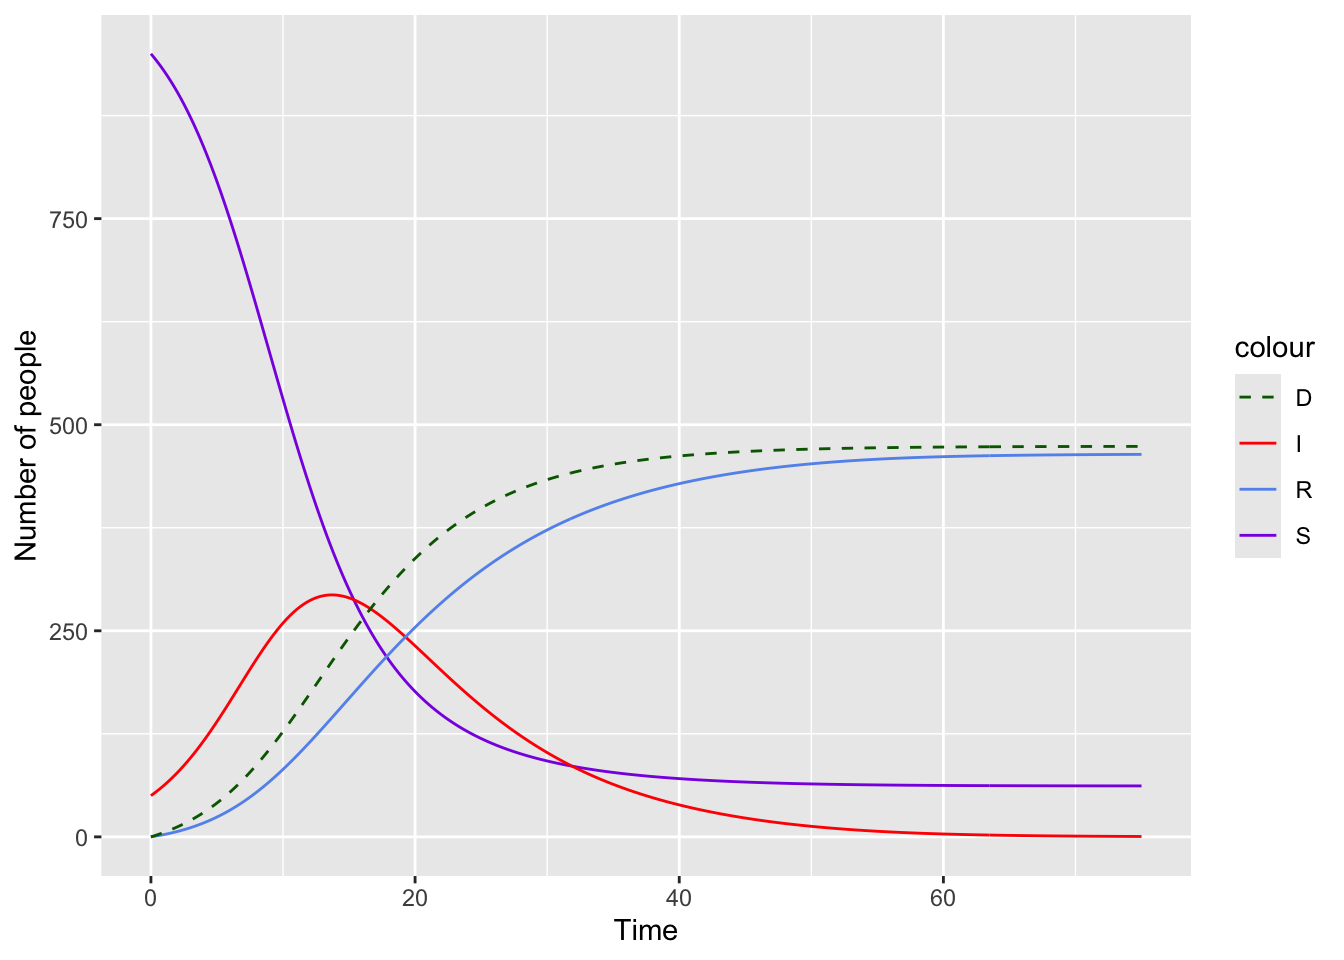
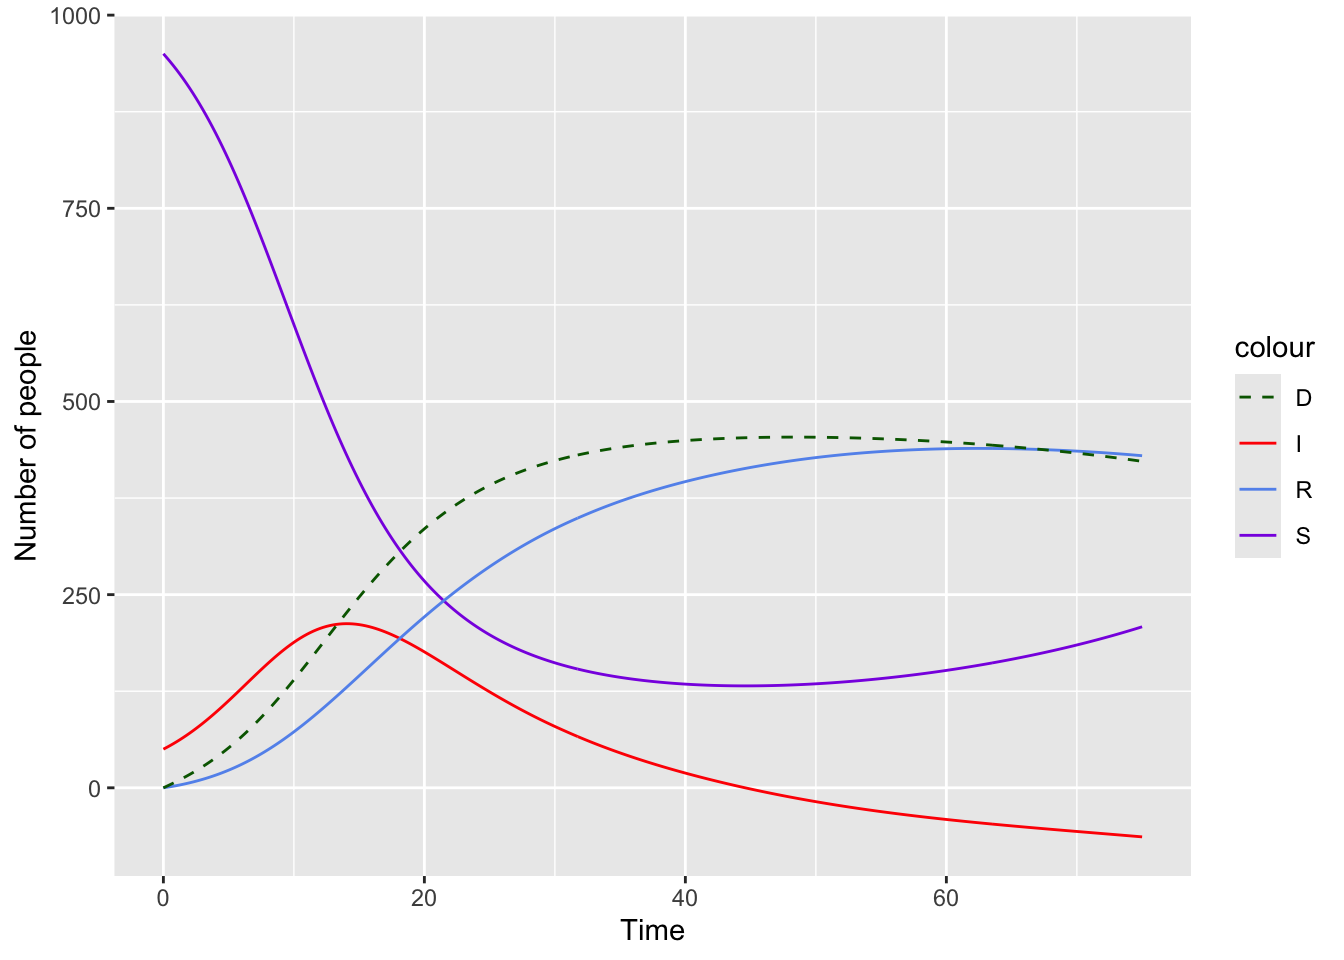
update parameters

diff --git a/competing_risks.html b/competing_risks.html
@@ -341,7 +341,7 @@ n_{i-1}*(1-z)*q_i
 <span id="cb2-74"><a href="#cb2-74" aria-hidden="true" tabindex="-1"></a>    i_dist[<span class="dv">1</span><span class="sc">:</span>d_maxtime] <span class="ot">&lt;-</span> <span class="cf">if</span> (normalize_dist) (p_prime<span class="sc">*</span>r_dist[i] <span class="sc">+</span> d_prob<span class="sc">*</span>d_dist[i])<span class="sc">/</span><span class="fu">sum</span>(normalizer) </span>
 <span id="cb2-75"><a href="#cb2-75" aria-hidden="true" tabindex="-1"></a>    <span class="cf">else</span> (p_prime<span class="sc">*</span>r_dist[i] <span class="sc">+</span> d_prob<span class="sc">*</span>d_dist[i])</span>
 <span id="cb2-76"><a href="#cb2-76" aria-hidden="true" tabindex="-1"></a>    <span class="co"># for i_dist at timestep &gt; d_maxtime is just the probability distribution of I-&gt;R transition</span></span>
-<span id="cb2-77"><a href="#cb2-77" aria-hidden="true" tabindex="-1"></a>    i_dist[(d_maxtime<span class="sc">+</span><span class="dv">1</span>)<span class="sc">:</span>r_maxtime] <span class="ot">&lt;-</span> (r_prob<span class="sc">-</span>p_prime)<span class="sc">*</span>r_dist[i]</span>
+<span id="cb2-77"><a href="#cb2-77" aria-hidden="true" tabindex="-1"></a>    i_dist[(d_maxtime<span class="sc">+</span><span class="dv">1</span>)<span class="sc">:</span>r_maxtime] <span class="ot">&lt;-</span> r_dist[i]</span>
 <span id="cb2-78"><a href="#cb2-78" aria-hidden="true" tabindex="-1"></a></span>
 <span id="cb2-79"><a href="#cb2-79" aria-hidden="true" tabindex="-1"></a>    <span class="co"># transition prob</span></span>
 <span id="cb2-80"><a href="#cb2-80" aria-hidden="true" tabindex="-1"></a>    <span class="fu">dim</span>(transprob) <span class="ot">&lt;-</span> r_maxtime</span>
@@ -433,7 +433,7 @@ n_{i-1}*(1-z)*q_i
 <summary>Model config</summary>
 <div class="sourceCode cell-code" id="cb6"><pre class="sourceCode r code-with-copy"><code class="sourceCode r"><span id="cb6-1"><a href="#cb6-1" aria-hidden="true" tabindex="-1"></a>mod1_config <span class="ot">&lt;-</span> <span class="fu">list</span>(</span>
 <span id="cb6-2"><a href="#cb6-2" aria-hidden="true" tabindex="-1"></a>  <span class="at">rate =</span> <span class="fl">0.1</span>,</span>
-<span id="cb6-3"><a href="#cb6-3" aria-hidden="true" tabindex="-1"></a>  <span class="at">d_rate =</span> <span class="fl">0.2</span>,</span>
+<span id="cb6-3"><a href="#cb6-3" aria-hidden="true" tabindex="-1"></a>  <span class="at">d_rate =</span> <span class="fl">0.3</span>,</span>
 <span id="cb6-4"><a href="#cb6-4" aria-hidden="true" tabindex="-1"></a>  <span class="at">beta =</span> <span class="fl">0.4</span>,</span>
 <span id="cb6-5"><a href="#cb6-5" aria-hidden="true" tabindex="-1"></a>  <span class="at">S =</span> <span class="dv">950</span>, </span>
 <span id="cb6-6"><a href="#cb6-6" aria-hidden="true" tabindex="-1"></a>  <span class="at">I =</span> <span class="dv">50</span>,</span>
@@ -787,7 +787,7 @@ n_{i-1}*(1-z)*q_i
 <summary>Model config</summary>
 <div class="sourceCode cell-code" id="cb20"><pre class="sourceCode r code-with-copy"><code class="sourceCode r"><span id="cb20-1"><a href="#cb20-1" aria-hidden="true" tabindex="-1"></a>mod3_config <span class="ot">&lt;-</span> <span class="fu">list</span>(</span>
 <span id="cb20-2"><a href="#cb20-2" aria-hidden="true" tabindex="-1"></a>  <span class="at">rate =</span> <span class="fl">0.1</span>,</span>
-<span id="cb20-3"><a href="#cb20-3" aria-hidden="true" tabindex="-1"></a>  <span class="at">d_rate =</span> <span class="fl">0.2</span>,</span>
+<span id="cb20-3"><a href="#cb20-3" aria-hidden="true" tabindex="-1"></a>  <span class="at">d_rate =</span> <span class="fl">0.3</span>,</span>
 <span id="cb20-4"><a href="#cb20-4" aria-hidden="true" tabindex="-1"></a>  <span class="at">beta =</span> <span class="fl">0.4</span>,</span>
 <span id="cb20-5"><a href="#cb20-5" aria-hidden="true" tabindex="-1"></a>  <span class="at">S =</span> <span class="dv">950</span>, </span>
 <span id="cb20-6"><a href="#cb20-6" aria-hidden="true" tabindex="-1"></a>  <span class="at">I =</span> <span class="dv">50</span>,</span>
@@ -926,7 +926,7 @@ n_{i-1}*(1-z)*q_i
 <span id="cb25-17"><a href="#cb25-17" aria-hidden="true" tabindex="-1"></a>desolveInitialValues <span class="ot">&lt;-</span> <span class="fu">c</span>(</span>
 <span id="cb25-18"><a href="#cb25-18" aria-hidden="true" tabindex="-1"></a>  <span class="at">S =</span> mod3_config<span class="sc">$</span>S, </span>
 <span id="cb25-19"><a href="#cb25-19" aria-hidden="true" tabindex="-1"></a>  <span class="at">IR =</span> mod3_config<span class="sc">$</span>r_prob<span class="sc">*</span>mod3_config<span class="sc">$</span>I,</span>
-<span id="cb25-20"><a href="#cb25-20" aria-hidden="true" tabindex="-1"></a>  <span class="at">ID =</span> mod3_config<span class="sc">$</span>r_prob<span class="sc">*</span>mod3_config<span class="sc">$</span>I,</span>
+<span id="cb25-20"><a href="#cb25-20" aria-hidden="true" tabindex="-1"></a>  <span class="at">ID =</span> mod3_config<span class="sc">$</span>d_prob<span class="sc">*</span>mod3_config<span class="sc">$</span>I,</span>
 <span id="cb25-21"><a href="#cb25-21" aria-hidden="true" tabindex="-1"></a>  <span class="at">R =</span> <span class="dv">0</span>,</span>
 <span id="cb25-22"><a href="#cb25-22" aria-hidden="true" tabindex="-1"></a>  <span class="at">D =</span> <span class="dv">0</span></span>
 <span id="cb25-23"><a href="#cb25-23" aria-hidden="true" tabindex="-1"></a>)</span>
